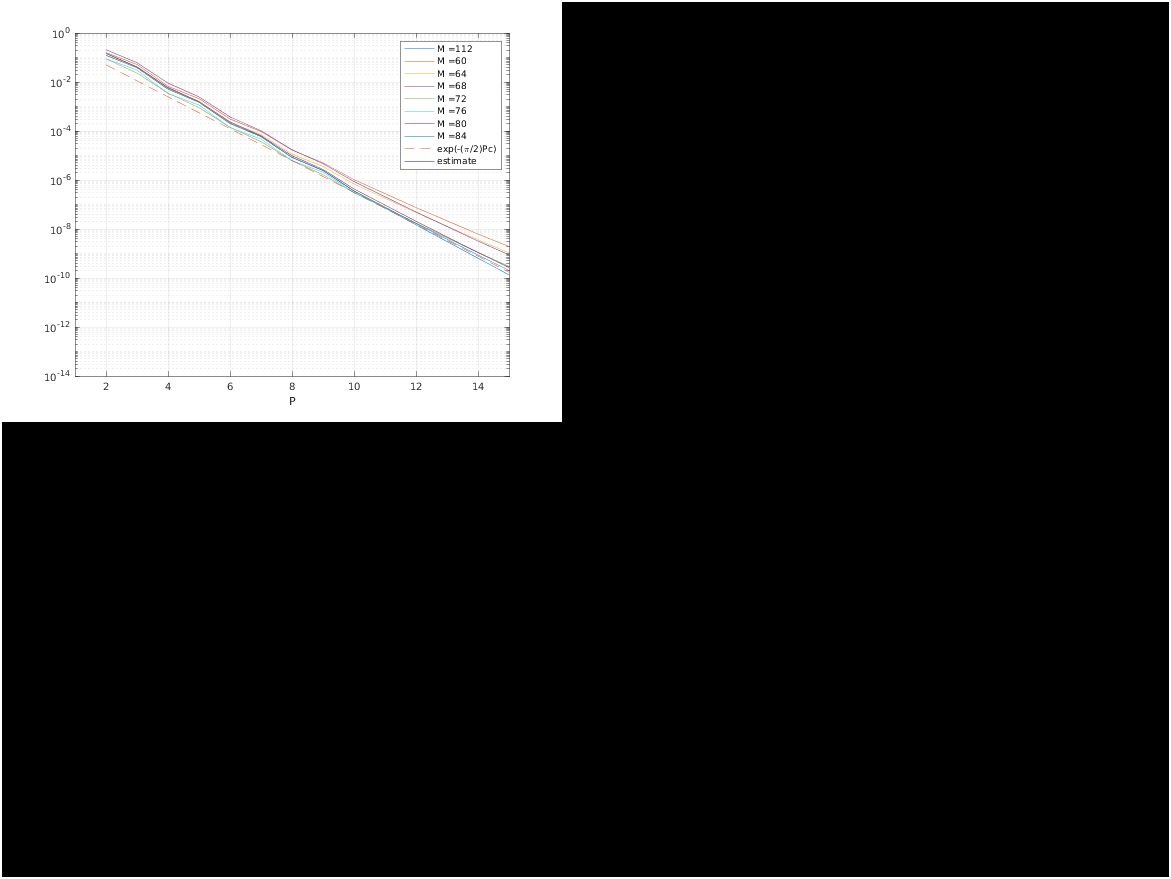
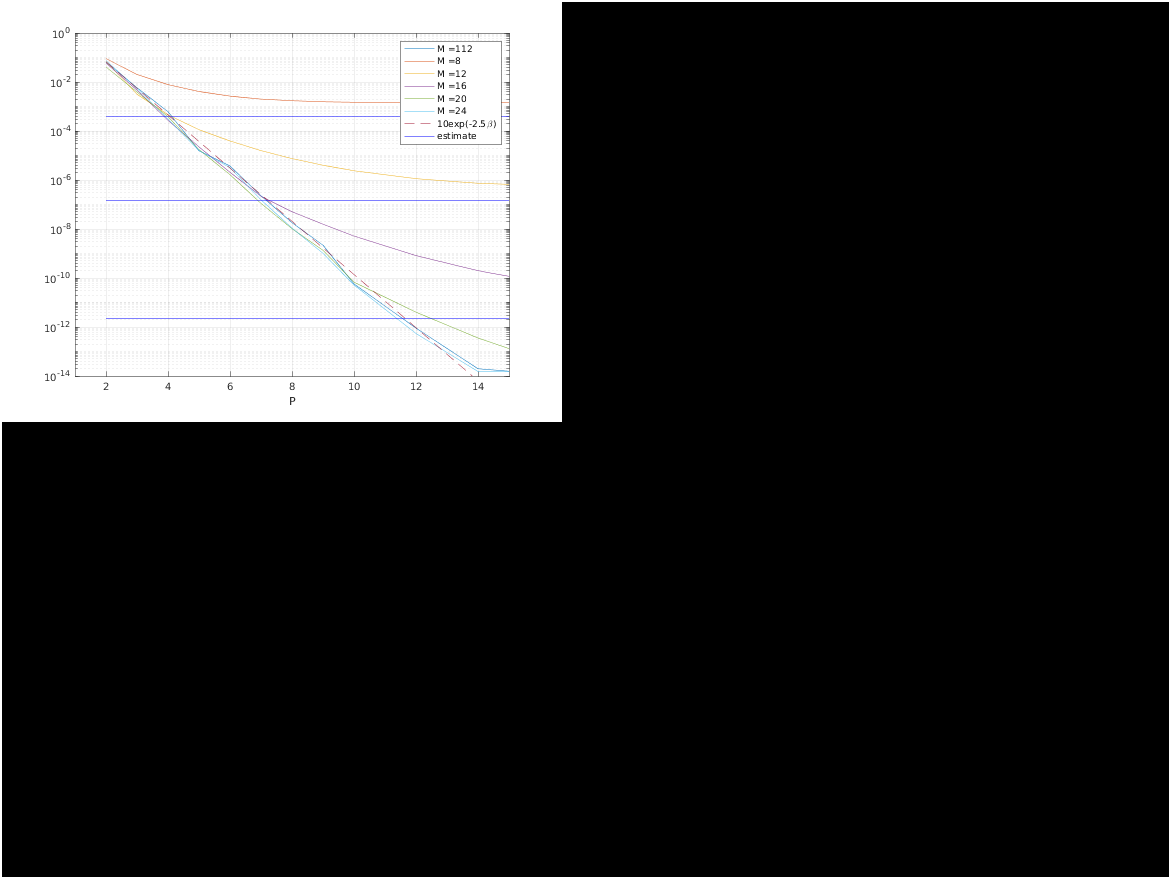
new estimate

diff --git a/SE_Stokes_run/SE3P_Stokes/P_error.m b/SE_Stokes_run/SE3P_Stokes/P_error.m
@@ -17,11 +17,11 @@ opt.box = box;
 
 M0 = 128; % Set M0=M/L, the restu * 1+ is automatic
 opt.M = M0*opt.box;
-opt.xi = 15;
+opt.xi = 5;
 opt.betaP = 2.5;
 opt.c = sqrt(0.91);
 %opt.window = 'kaiser_exact';
-opt.window = 'gaussian';
+opt.window = 'kaiser_exact';
 opt.polynomial_degree = 9;
 % charge-neutral system
 [x, f] = SE_charged_system(N,box,'vector');
@@ -45,7 +45,7 @@ end
 %ref = SE3P_Stokes(1:N,x,f,opt);
 rms_ref = rmse(ref);
 %% Compare solutions with changing P
-MM = 60:4:84;
+MM = 8:4:24;
 str = {};
 %est = @(M,xi,L,f) sqrt(f)*(xi^3*L^2/(pi^4*(M/2)^(3/2)))*exp(-(pi*(M/2)/(xi*L))^2);
 est = @(M,xi,L,f) sqrt(f)*(4/(3^(1/4)*L*pi))*exp(-(pi*M/(xi*L*2))^2);
